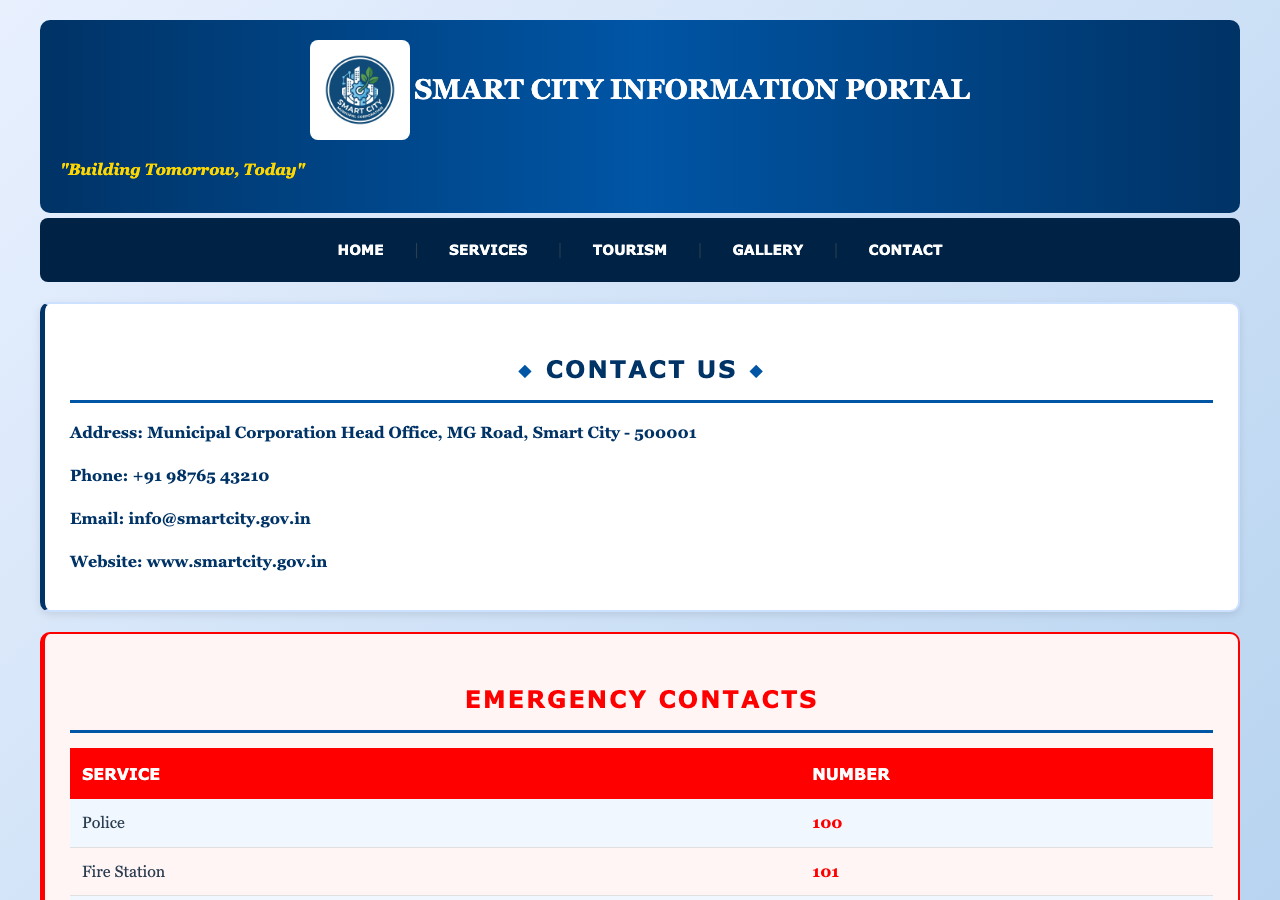
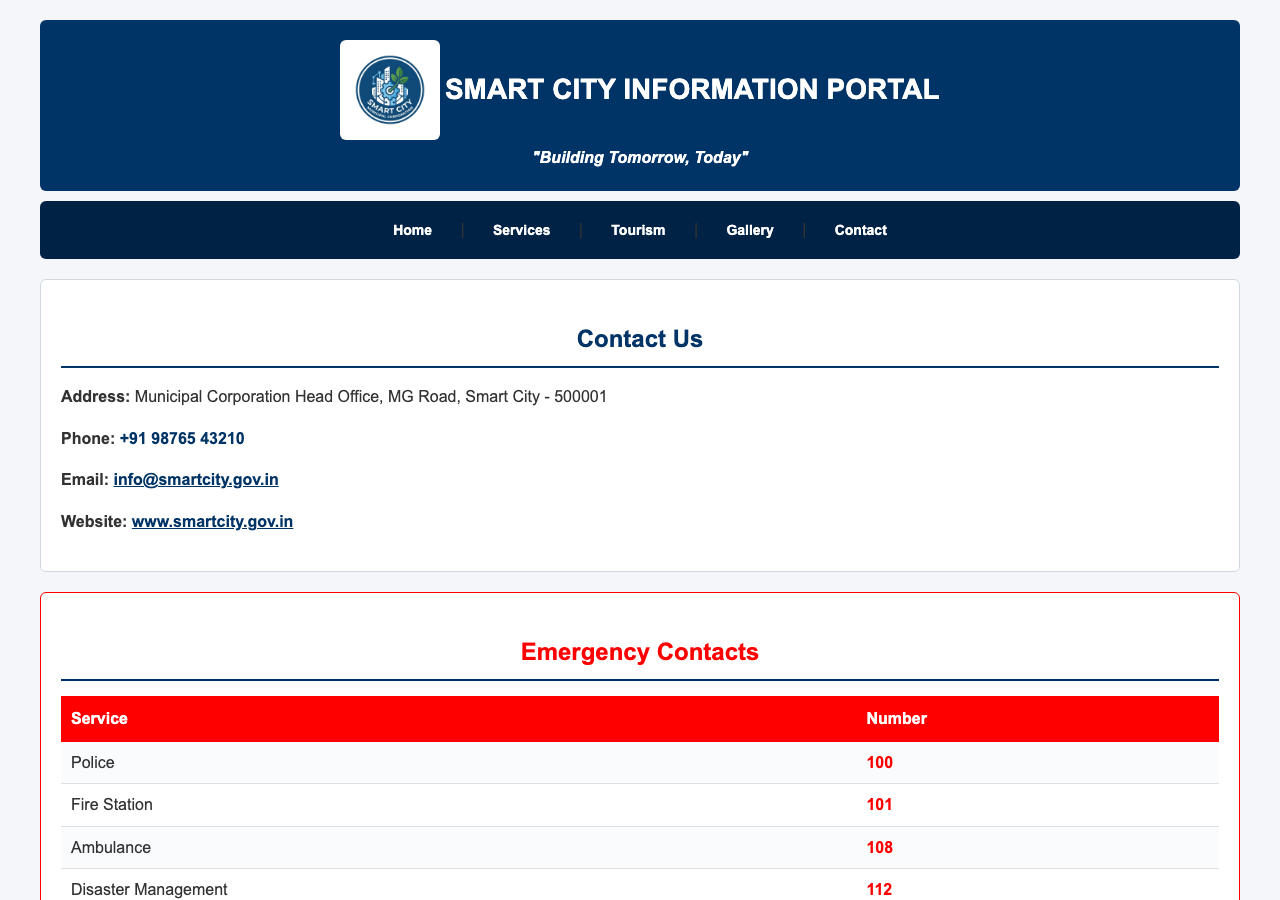
Update week 7 one.html to exact lab record format

diff --git a/week 7/one.html b/week 7/one.html
@@ -12,7 +12,7 @@ alert("Welcome " + citizenName + " to the Smart City Information Portal!");
 // 3. Accepts the citizen's ward number
 var wardNumber = parseInt(prompt("Enter your ward number:"));
 
-// 4. Checks whether the entered ward number is valid (Valid ward numbers are 1 to 50)
+// 4. Checks whether the entered ward number is valid. Assume valid ward numbers are 1 to 50.
 var wardStatus = "";
 if (wardNumber >= 1 && wardNumber <= 50) {
     wardStatus = "Ward " + wardNumber + " is a valid ward number.";
@@ -52,88 +52,3 @@ var summaryMessage = "Citizen Information Summary:\n\n" +
     "Total Units Consumed: " + unitsConsumed + " units";
 
 alert(summaryMessage);
-
-
-// Function to process information using HTML Form input/output elements
-function processCitizenPortal() {
-    // Accepts the citizen's name and age
-    var name = document.getElementById("citizenName").value;
-    var age = parseInt(document.getElementById("citizenAge").value);
-
-    // Displays a personalized welcome message to the citizen
-    document.getElementById("outputWelcome").innerHTML = "<h4>Welcome, " + name + "!</h4><p>Welcome to the Smart City Information Portal.</p>";
-
-    // Accepts the citizen's ward number
-    var ward = parseInt(document.getElementById("wardNumber").value);
-
-    // Checks whether the entered ward number is valid (1 to 50)
-    var wardMsg = "";
-    if (ward >= 1 && ward <= 50) {
-        wardMsg = "Ward " + ward + " is a valid ward.";
-        document.getElementById("outputWard").innerHTML = "<span class=\"badge badge-success\">Valid (Ward " + ward + ")</span>";
-    } else {
-        wardMsg = "Ward " + ward + " is invalid. Valid ward numbers are 1 to 50.";
-        document.getElementById("outputWard").innerHTML = "<span class=\"badge badge-danger\">Invalid (Ward " + ward + ")</span>";
-    }
-    document.getElementById("outputWardMsg").textContent = wardMsg;
-
-    // Determines whether citizen is eligible for Senior Citizen Service (Age >= 60)
-    var seniorMsg = "";
-    if (age >= 60) {
-        seniorMsg = "Eligible for Senior Citizen Service.";
-        document.getElementById("outputSenior").innerHTML = "<span class=\"badge badge-success\">Eligible</span>";
-    } else {
-        seniorMsg = "Not Eligible for Senior Citizen Service.";
-        document.getElementById("outputSenior").innerHTML = "<span class=\"badge badge-info\">Not Eligible</span>";
-    }
-    document.getElementById("outputSeniorMsg").textContent = seniorMsg;
-
-    // Accepts two monthly water-meter readings and calculates units consumed
-    var prev = parseFloat(document.getElementById("prevReading").value);
-    var curr = parseFloat(document.getElementById("currReading").value);
-    var units = curr - prev;
-
-    // Displays the calculated water consumption
-    document.getElementById("outputWater").innerHTML = "<span class=\"badge badge-info\">" + units.toFixed(1) + " Units</span>";
-    document.getElementById("outputWaterSummary").innerHTML =
-        "<p>Previous Reading: " + prev.toFixed(1) + " KL</p>" +
-        "<p>Current Reading: " + curr.toFixed(1) + " KL</p>" +
-        "<p>Water Units Consumed: " + units.toFixed(1) + " Units</p>";
-
-    // Displays output section
-    document.getElementById("resultSection").style.display = "block";
-}
-
-// Function to run prompt-based interaction from the portal page
-function runPromptAssistant() {
-    var name = prompt("Enter citizen name:");
-    if (!name) return;
-    var age = parseInt(prompt("Enter citizen age:"));
-    alert("Welcome " + name + " to the Smart City Information Portal!");
-
-    var ward = parseInt(prompt("Enter your ward number:"));
-    if (ward >= 1 && ward <= 50) {
-        alert("Ward " + ward + " is a valid ward number.");
-    } else {
-        alert("Ward " + ward + " is an invalid ward number. (Valid wards: 1 to 50)");
-    }
-
-    if (age >= 60) {
-        alert("Eligible for Senior Citizen Service.");
-    } else {
-        alert("Not Eligible for Senior Citizen Service.");
-    }
-
-    var prev = parseFloat(prompt("Enter previous month water-meter reading:"));
-    var curr = parseFloat(prompt("Enter current month water-meter reading:"));
-    var units = curr - prev;
-
-    alert("Calculated Water Consumption: " + units + " units");
-
-    alert("Citizen Information Summary:\n" +
-        "Name: " + name + "\n" +
-        "Age: " + age + "\n" +
-        "Ward: " + ward + "\n" +
-        "Senior Citizen Status: " + (age >= 60 ? "Eligible" : "Not Eligible") + "\n" +
-        "Units Consumed: " + units);
-}
